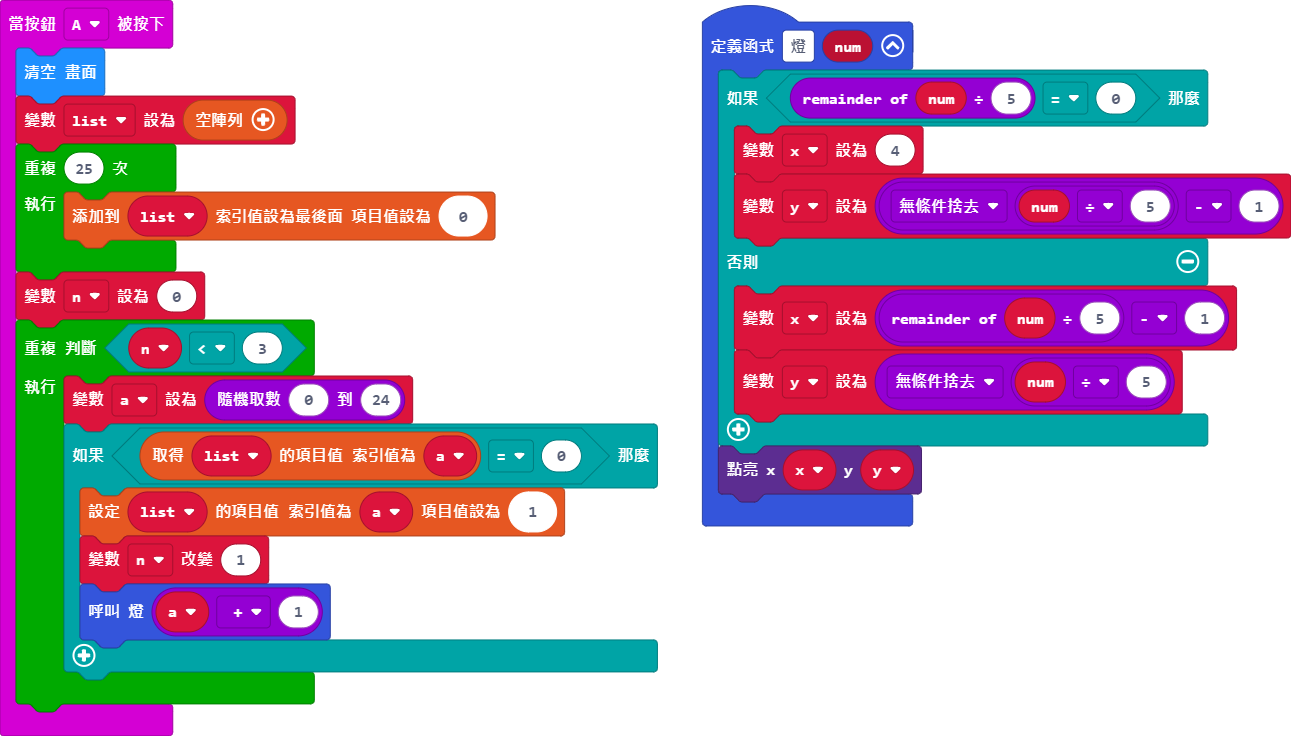
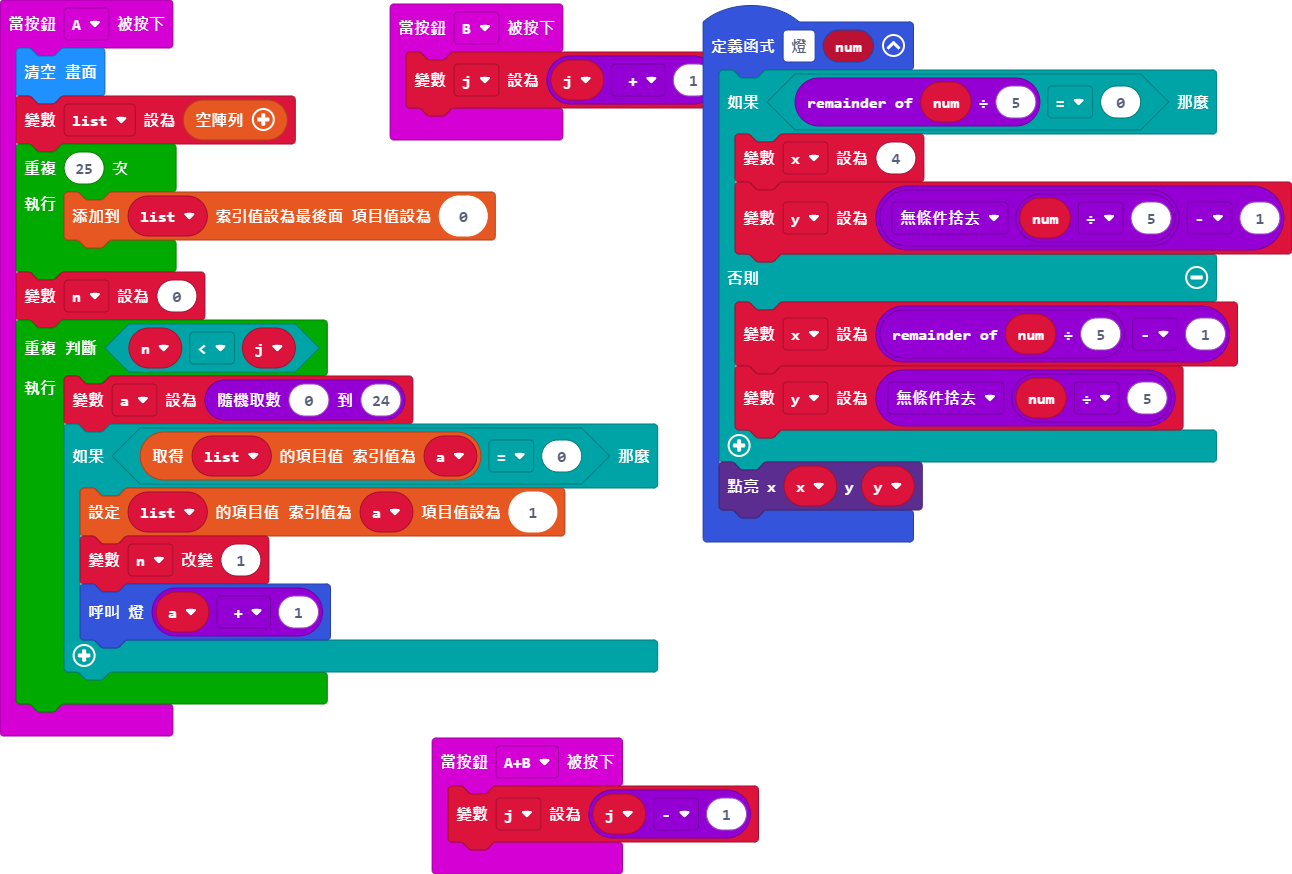
更新 main.blocks, main.ts

diff --git a/main.ts b/main.ts
@@ -1,5 +1,6 @@
 let list: number[] = []
 let n = 0
+let j = 0
 let a = 0
 let x = 0
 let y = 0
@@ -10,7 +11,7 @@ input.onButtonPressed(Button.A, function () {
         list.push(0)
     }
     n = 0
-    while (n < 3) {
+    while (n < j) {
         a = randint(0, 24)
         if (list[a] == 0) {
             list[a] = 1
@@ -18,6 +19,9 @@ input.onButtonPressed(Button.A, function () {
             燈(a + 1)
         }
     }
+})
+input.onButtonPressed(Button.AB, function () {
+    j = j - 1
 })
 function 燈 (num: number) {
     if (num % 5 == 0) {
@@ -29,3 +33,6 @@ function 燈 (num: number) {
     }
     led.plot(x, y)
 }
+input.onButtonPressed(Button.B, function () {
+    j = j + 1
+})
